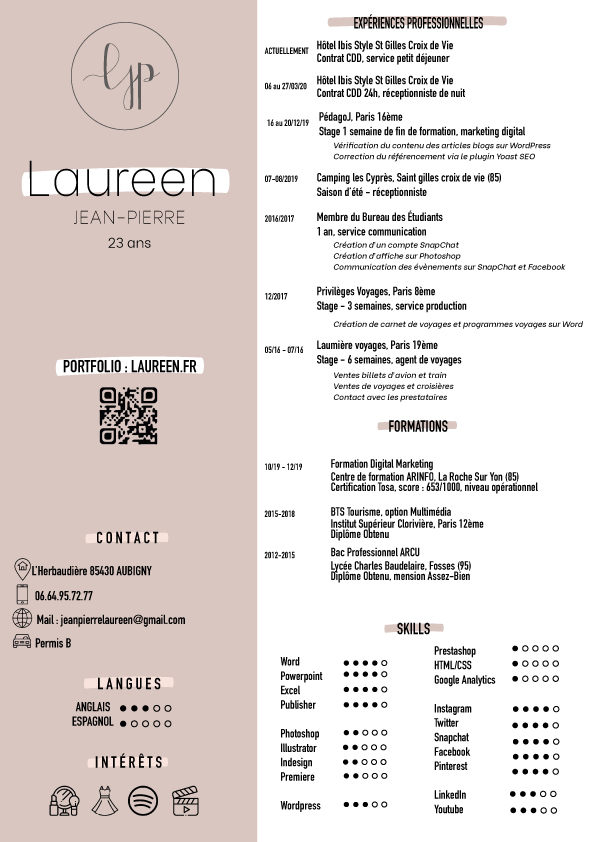
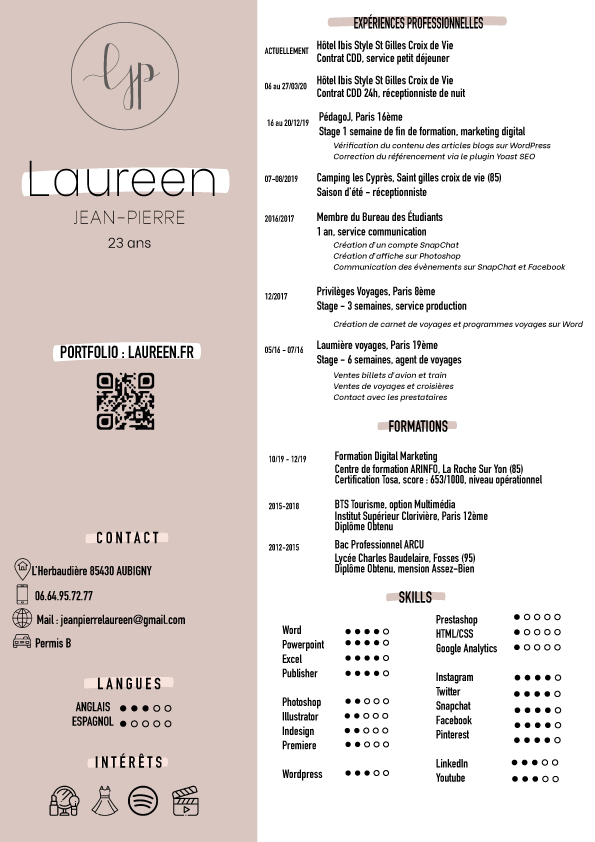
changement CSS CV

diff --git a/ressources/css/style.css b/ressources/css/style.css
@@ -472,11 +472,11 @@ header{
 /* CONTACT
 ==========================*/
 .cv {
-    background-color: #D8C5BF;
+    background-color:#ffff;
 }
 
 .cv img{
-    margin-left: 150px;
+    margin-left: 250px;
     margin-bottom: 55px;
     margin-top: 35px;
 }
